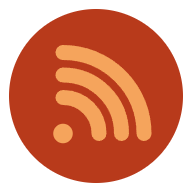
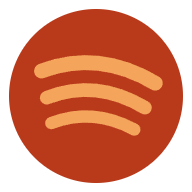
Novi znak: tri luka u krugu
Znak je precrtan iz slike u vektor, pa ostaje ostar i na 16 tocaka.
Iste boje kao dosad. `npm run ikona` iz njega slozi sve ikone.

Changed region(s): [[0.1562, 0.2188, 0.875, 0.75]]

diff --git a/src/Znak.jsx b/src/Znak.jsx
@@ -1,5 +1,5 @@
 /*
- * Znak Lucifyja: val koji se širi iz donjega lijevog kuta. Stoji ovdje kao
+ * Znak Lucifyja: tri luka u krugu, sve kraći prema dnu. Stoji ovdje kao
  * ugrađeni SVG, a ne kao `<img>` na `public/lucify.svg`, jer se u gornjoj traci
  * crta pri svakom prikazu: ugrađen ne traži ništa izvana i ne trepne dok se
  * dohvaća. Istu sliku ipak treba i kao datoteku u `public/lucify.svg`, jer je
@@ -19,12 +19,11 @@ export default function Znak({ mjera = 22 }) {
       style={{ display: "block", flex: "none" }}
     >
       <circle cx="256" cy="256" r="232" fill="#b83a1b" />
-      <g fill="none" stroke="#f5a45c" strokeWidth="40" strokeLinecap="round">
-        <path d="M264 356A96 96 0 0 0 168 260" />
-        <path d="M324 356A156 156 0 0 0 168 200" />
-        <path d="M384 356A216 216 0 0 0 168 140" />
+      <g fill="none" stroke="#f5a45c" strokeLinecap="round">
+        <path d="M110.8 189.3Q262.4 132 414 221.7" strokeWidth="39.7" />
+        <path d="M124.5 260.6Q255.5 209 386.6 287.1" strokeWidth="36.5" />
+        <path d="M136.8 328.2Q247.3 285.7 358.3 345.5" strokeWidth="32.9" />
       </g>
-      <circle cx="168" cy="356" r="26" fill="#f5a45c" />
     </svg>
   );
 }
